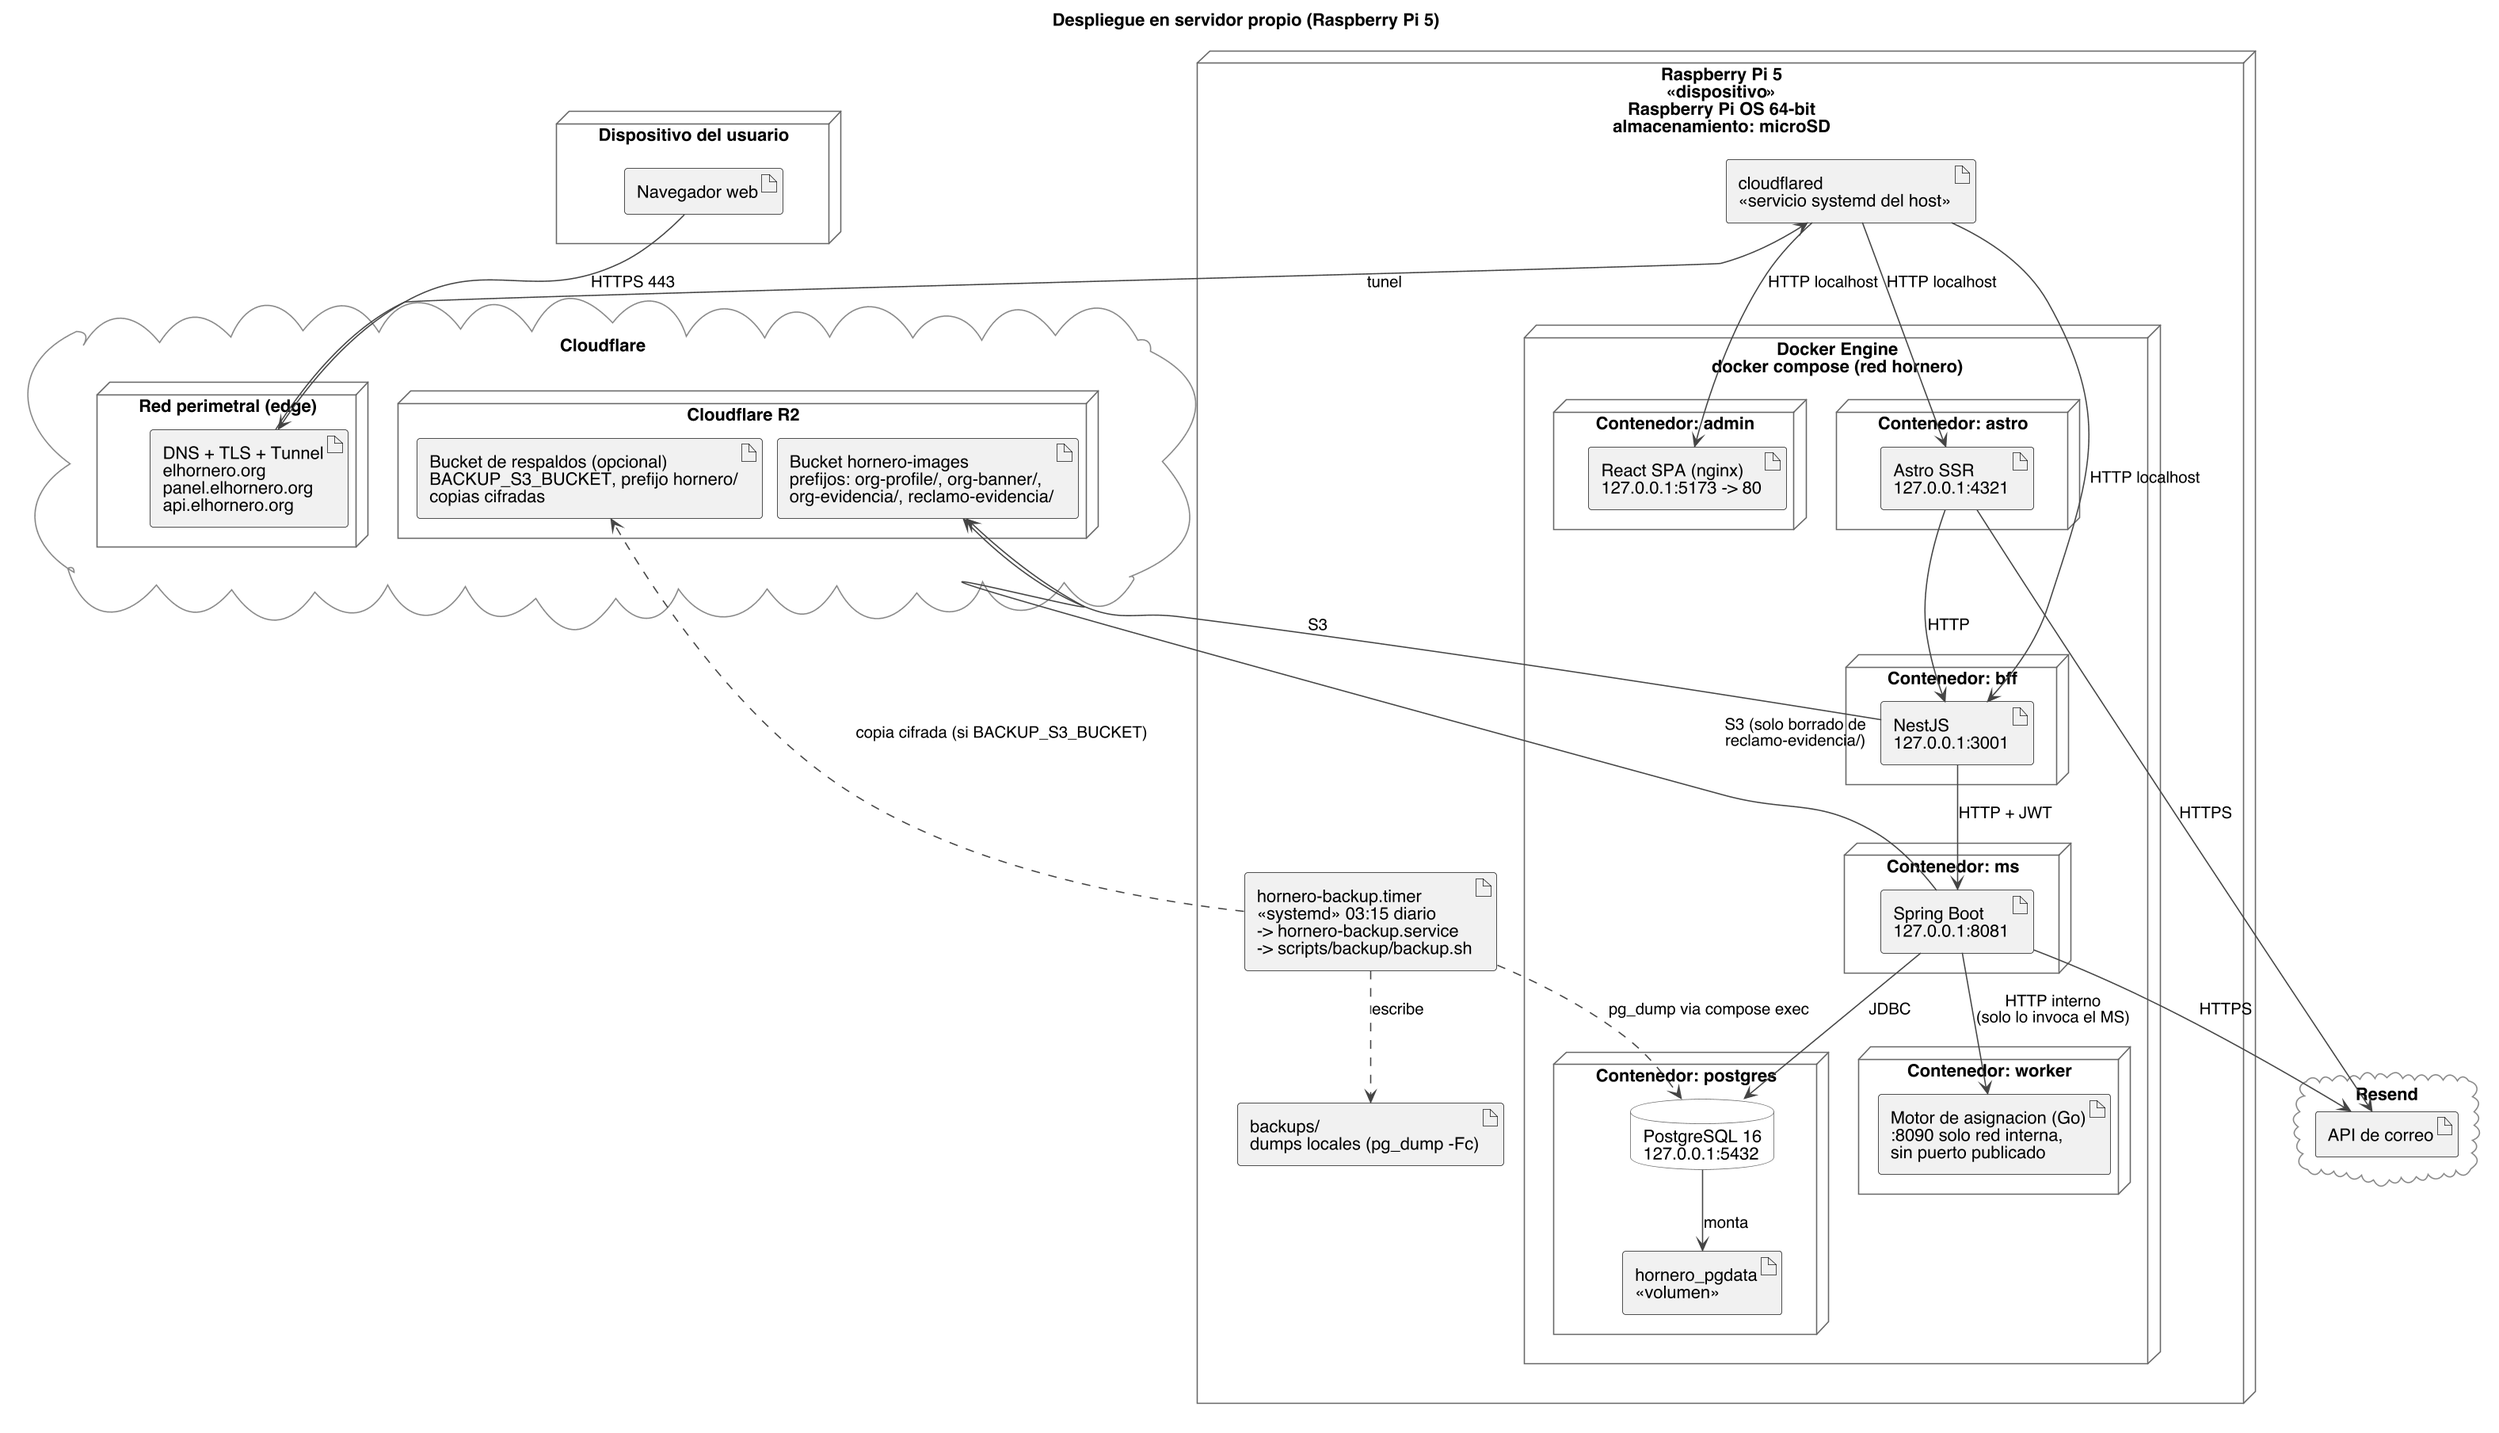
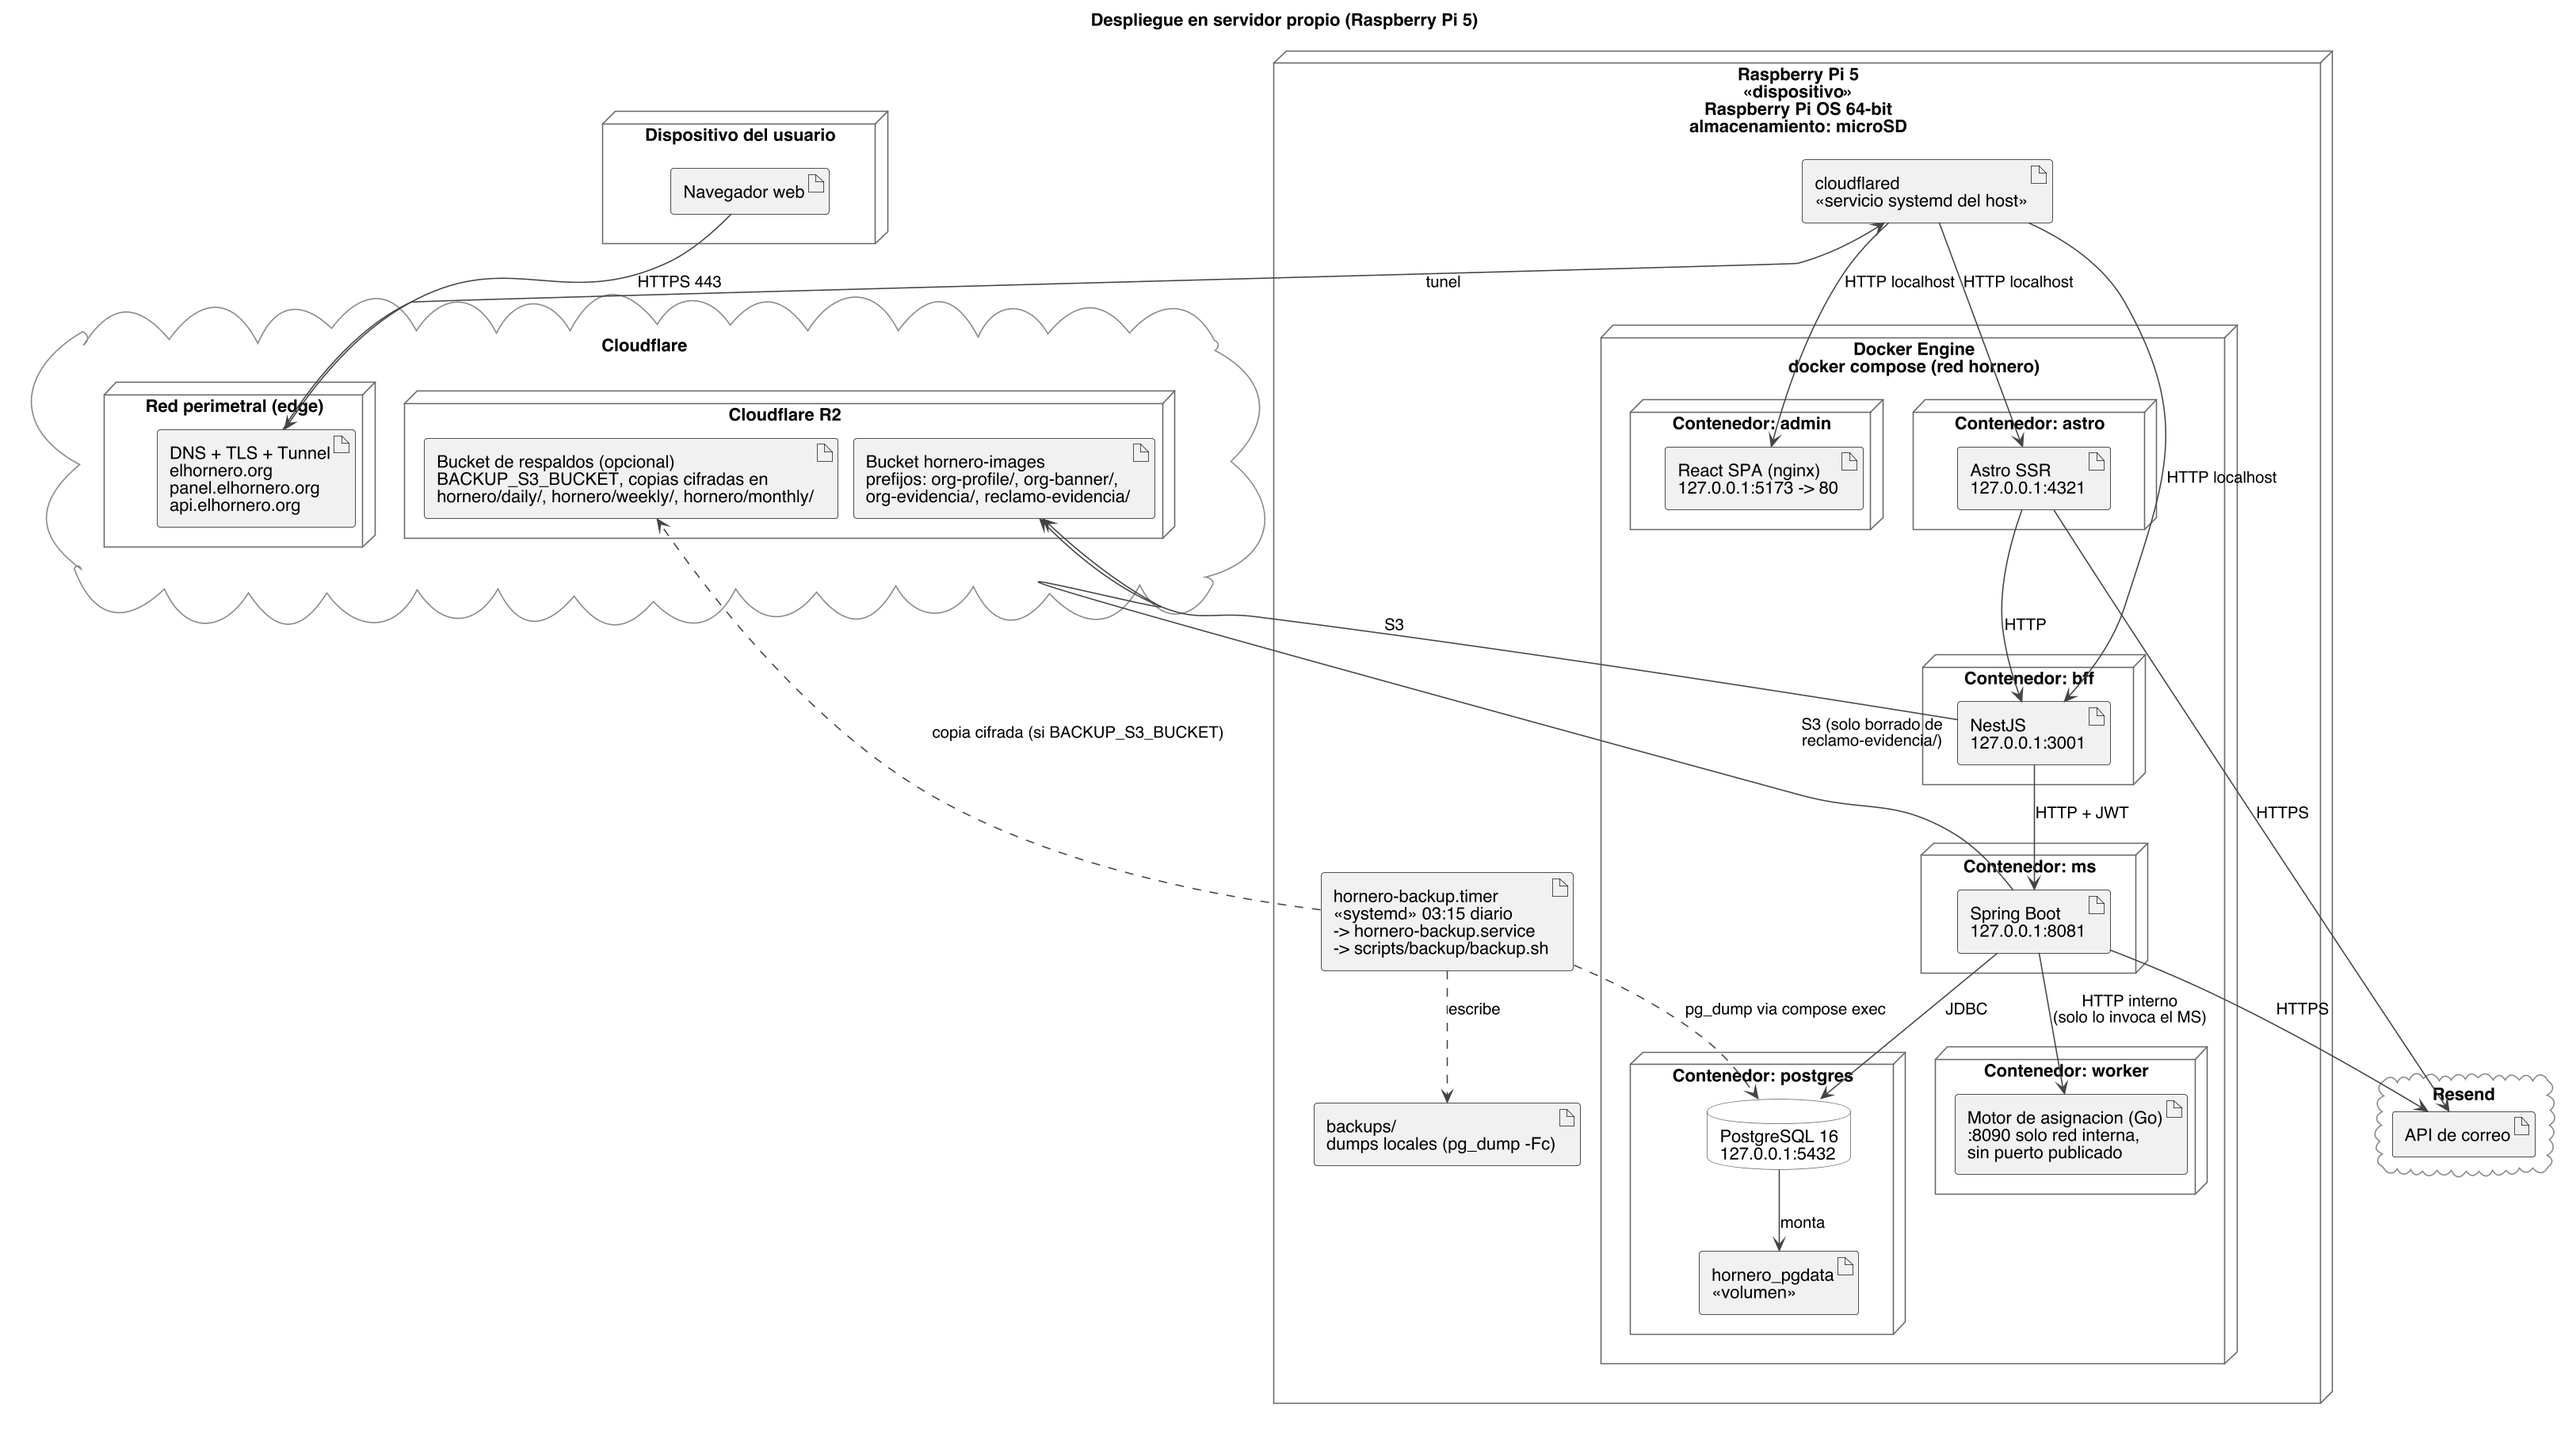
feat(backup): upload offsite copies to daily, weekly and monthly prefixes for per-prefix lifecycle retention

diff --git a/docs/deploy-rpi-cloudflare.md b/docs/deploy-rpi-cloudflare.md
@@ -446,7 +446,8 @@ restaurable de forma selectiva). `make backup` llama al mismo script; los dumps 
 | `BACKUP_S3_ENDPOINT`           | —              | Endpoint S3/R2 del bucket de backups                        |
 | `BACKUP_AWS_ACCESS_KEY_ID` / `BACKUP_AWS_SECRET_ACCESS_KEY` | — | Credenciales **propias** del bucket de backups |
 | `BACKUP_PASSPHRASE`            | —              | Frase de cifrado (obligatoria con `BACKUP_S3_BUCKET`)       |
-| `BACKUP_S3_PREFIX`             | `hornero/`     | Prefijo de las keys                                         |
+| `BACKUP_S3_PREFIX`             | `hornero/`     | Prefijo base; las copias van a `<prefijo>daily/`, `weekly/` y `monthly/` |
+| `BACKUP_WEEKLY_DAY`            | `7`            | Día ISO (1 = lunes ... 7 = domingo) cuya copia se guarda también como semanal |
 
 Opcionales: `BACKUP_DIR`, `BACKUP_AWS_CLI_IMAGE`, `BACKUP_AWS_DOCKER_ARGS`
 (ver cabecera de `backup.sh`). `chmod 600 .env`: ahí viven la passphrase y las keys.
@@ -480,10 +481,13 @@ ls -l backups/
    sin ella los dumps cifrados no se pueden abrir.
 4. Completar `BACKUP_S3_*`, `BACKUP_AWS_*` y `BACKUP_PASSPHRASE` en el `.env` y repetir la prueba
    de C.2. Cada dump se cifra con `openssl enc -aes-256-cbc -pbkdf2` y se sube con la imagen
-   `amazon/aws-cli` (no requiere instalar nada en el host) a `s3://<bucket>/hornero/`.
-5. **Retención remota:** no la hace el script. Configurarla en el bucket: R2 → bucket →
-   Settings → Object lifecycle rules → eliminar objetos con prefijo `hornero/` después de N días
-   (**30 días**, definido en D11).
+   `amazon/aws-cli` (no requiere instalar nada en el host) a `s3://<bucket>/hornero/daily/` (y además a `weekly/` el día `BACKUP_WEEKLY_DAY` y a `monthly/` el día 01, en UTC).
+5. **Retención remota:** no la hace el script (ningún código borra de un bucket). Se configura en
+   el bucket con **tres** reglas de ciclo de vida, una por prefijo: `hornero/daily/` a los 7 días,
+   `hornero/weekly/` a los 28 y `hornero/monthly/` a los 186. Los valores exactos y el motivo están
+   en `docs/tfg/seguridad-c5.md`. **No usar** una única regla sobre `hornero/` (la de 30 días que
+   figuraba antes): borraría también las copias semanales y mensuales. Esta retención 7/4/6 reemplaza
+   a los 30 días de D11.
 
 ### C.4 — Simulacro de restauración (restore drill)
 
@@ -498,8 +502,10 @@ BACKUP_PASSPHRASE=… make restore-check DUMP=hornero-<fecha>.dump.enc   # bajad
 
 Levanta un Postgres descartable (misma imagen que el compose, sin puertos publicados, se borra
 al terminar), restaura ahí, cuenta filas de `usuarios`, `organizaciones`, `necesidades`,
-`donaciones` y `refresh_tokens` y termina con `RESULT: OK` o un código de salida distinto de
-cero. **Nunca toca la DB real.** Registrar fecha y resultado de cada simulacro en
+`donaciones` y `refresh_tokens`, y termina con `RESULT: OK` o un código de salida distinto de
+cero. Con `--expect TABLA=N` compara los conteos con los esperados, y con `--ms-image` corre el
+verificador real de la cadena de hashes; además imprime una fila Markdown para
+`docs/tfg/prueba-restauracion.md`. **Nunca toca la DB real.** Registrar fecha y resultado de cada simulacro en
 `docs/seguridad-matriz-riesgos.md`. Frecuencia definida en D11: **una vez por cuatrimestre**, y además
 ante cada cambio de esquema o de passphrase.
 
@@ -550,14 +556,15 @@ que volver a iniciar sesión.
 | Frecuencia del simulacro                               | Una vez por cuatrimestre | Definido (D11) |
 | RPO (pérdida máxima de datos)                          | 24 horas | Definido (D11) |
 | RTO (tiempo máximo para volver a operar)               | 4 horas | Definido (D11) |
-| Retención local / remota                               | 14 días / 30 días | Definido (D11) |
+| Retención local / remota                               | 14 días / 7 diarias, 4 semanales, 6 mensuales (reemplaza los 30 días de D11) | Definido (C5); reglas de R2 sin aplicar |
 
 ### C.7 — Riesgo residual
 
 - **Imágenes (y futuras evidencias) en R2 no están cubiertas** por este mecanismo: solo se
   respalda Postgres. Si alguien borra o sobrescribe objetos en `hornero-images`, no hay copia.
-  Opciones, no implementadas: activar el versionado/replicación del bucket, o un
-  `aws s3 sync` periódico hacia el bucket de backups.
+  R2 no ofrece versionado ni replicación (`docs/tfg/seguridad-c5.md`). Existe `scripts/backup/evidence-copy.sh`
+  (copia aditiva con `rclone copy` a un segundo bucket), desactivado por defecto y sin temporizador
+  habilitado (`deploy/systemd/hornero-evidence-copy.*`).
 - **Restaurar una base antigua sobre un bucket más nuevo:** el barrido de evidencia huérfana
   (`EVIDENCIA_BARRIDO_*`) borra los archivos de `reclamo-evidencia/` que la base no referencia, y
   corre apenas arranca `ms`. Con una base restaurada, los archivos de reclamos posteriores al
